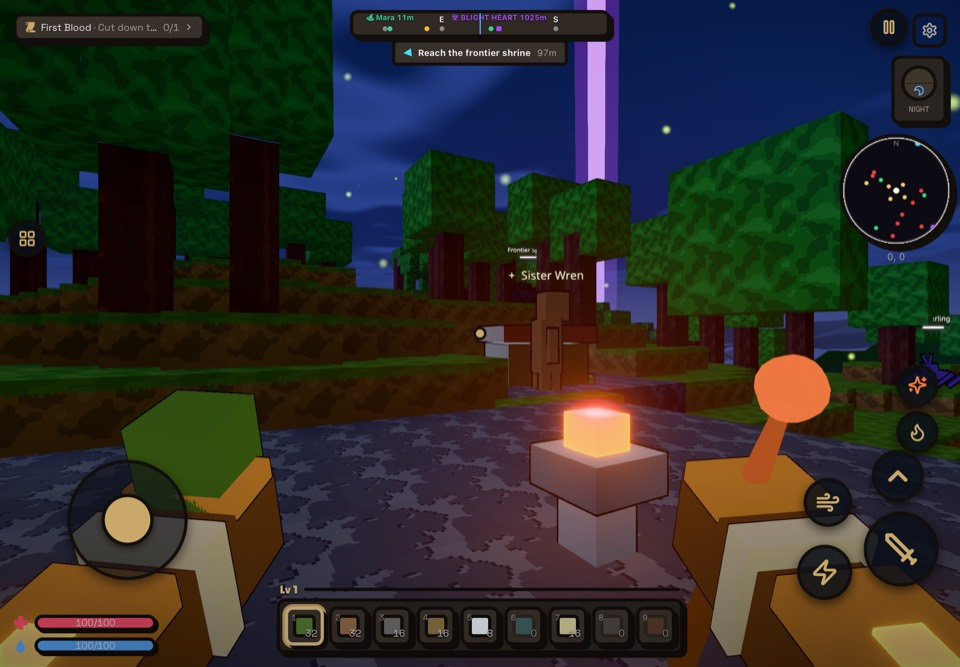
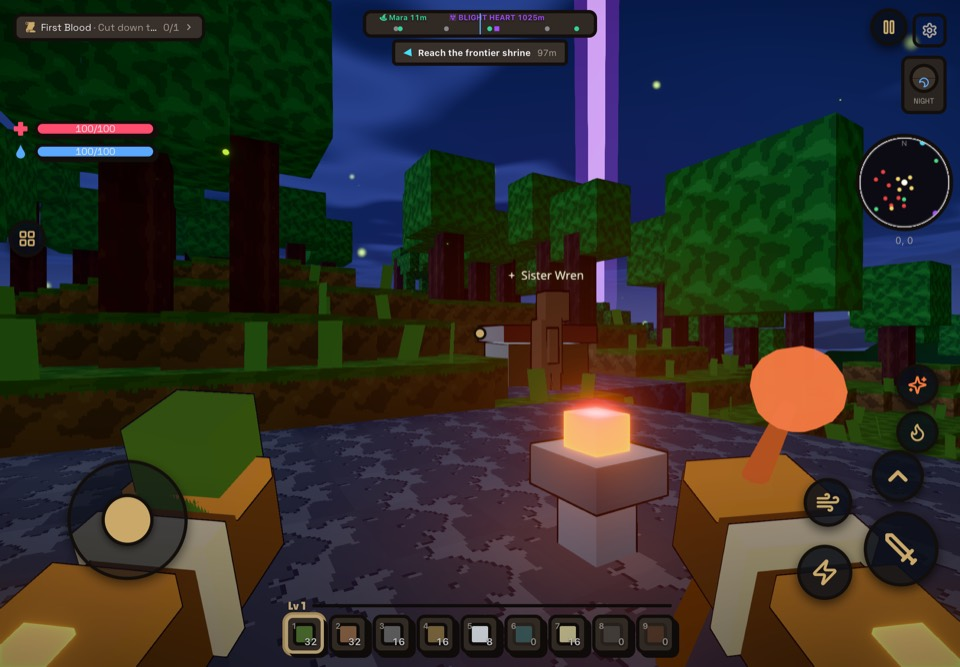
docs(w2d): item 96 with the first session's card and the measured footprint; PR B's frames re-shot for both players; two rows
Shot with scripts/visual/lookbook.mjs (eye set) on production builds, real GPU (Chromium on ANGLE Metal; WebKit on its
ANGLE-Metal path), M3 Max, 23:22-23:54Z. Before is PR A at 09201cf2 (the flat HUD, navy), after is this branch at
9298ae4b (warm charcoal). JPG at 960 px, each opened before it was committed: b-*-chromium-golden (0.48, heading 120:
the navy and then the warm chrome, footprint 6.68% both, the re-key moves no surface); b-*-webkit1180-midnight (0.75);
b-after-webkit1180-afternoon and b-after-webkit820-afternoon (0.30; 7.69% each, the touch vitals at the top left);
b-after-chromium-first-card (a first session in its first 30 s: the six keys above the hotbar, 7.40%) and
b-after-chromium-first-hint (the same frame once the card has folded to "H Controls", 6.79%). DECISIONS 94 sets aside a
frame with a target frame up, as one with a toast. Registry: REVIEW:w2d:webkit-chrome-after-rekey closes on fe90b4b8
(it was the colour count's palette dependence; the footprint holds WebKit 1180x820 at 7.69%); REVIEW:w2d:forge-walk-settle
notes PR A shows the same first-attempt failure; REVIEW:w2d:pause-tap-title-canvas added (PR A's CI run 40973536186).

diff --git a/docs/superpowers/DECISIONS.md b/docs/superpowers/DECISIONS.md
@@ -40,8 +40,13 @@ Each stands while it earns its place.
    generated from KEY_MAP (every row's label now a key in both dictionaries) in place of the sheet that faded after 8
    seconds (STATUS C1/c). **A first session (the command session's call):** a desktop player who has not opened the
    panel sees the controls card at rest until they press H or have played 30 s with the card on screen (time paused or
-   in a panel does not count); the card then folds to the one-line "H Controls" hint above the hotbar, which stays, on a
-   keyboard only, until H opens the panel once (`tests/gates/controls-panel-gates.test.jsx`: the fold at 30 s, the clock
+   in a panel does not count); the card is one bare line above the hotbar, six essential keys drawn as the hint is (WASD,
+   LMB, RMB, Tab, J, H, each a KEY_MAP key), because the whole list in a panel read 8.47% of a 1280x800 frame at rest by
+   the footprint; it then folds to the one-line "H Controls" hint, which stays, on a keyboard only, until H opens the
+   panel once. **Measured at rest on this branch** (lookbook eye set, footprint, 2026-10-29 23:47-23:54Z): a returning
+   player at most 6.68% on Chromium 1280x800 and 7.69% on WebKit 1180x820 and 820x1180; a first session at most 7.40%
+   with the card up and 6.79% once it folds (the card shows on a keyboard only, so the iPads read as for a returning
+   player) (`tests/gates/controls-panel-gates.test.jsx`: the fold at 30 s, the clock
    paused off screen, the fold remembered, the hint never on touch). **Seen per browser profile, not per save:**
    `crafty_controls_seen` and `crafty_controls_card_done` sit beside `crafty_onboarded` in localStorage because they
    belong to the person at the browser, so no save field is added and
@@ -121,8 +126,9 @@ items. Each stands while it earns its place.
    and touch layer shown, a twin with the canvas alone and the frame again, and counts the pixels where the first two
    differ by more than 2 in any channel, if the first and last agree. The touch layer (its scrim, ring and buttons) is
    reported apart, as the pixels where the two twins differ; the colour count (pixels within 3 of the page's own
-   `--ui-*` surface colours) stays as a second column. A frame with a toast in the stack is not at rest and is set aside
-   by rule (`scripts/visual/_lookbook.mjs` `atRest`), the siege notice included. **Why:** a count of surface colours
+   `--ui-*` surface colours) stays as a second column. A frame with a toast in the stack or a target frame up (a mob in
+   the aim cone) is not at rest and is set aside by rule (`scripts/visual/_lookbook.mjs` `atRest`), the siege notice
+   included. **Why:** a count of surface colours
    reads the palette in both directions: a warm stone texture within 3 of the warm ladder counted as chrome (7.46% on a
    world with none) and a translucent panel whose blend misses every token did not count at all. The footprint reads no
    colour (`tests/gates/lookbook-chrome-gates.test.js`: a warm stone world with no chrome reads 0, a 10% panel reads 10%
